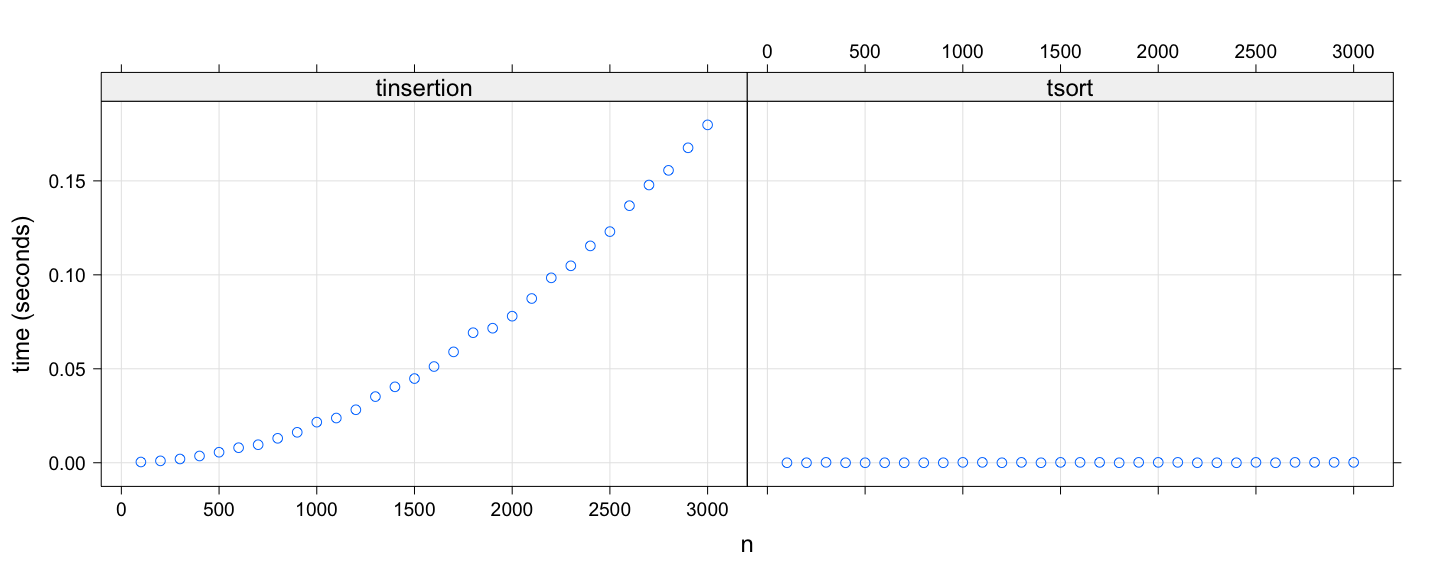
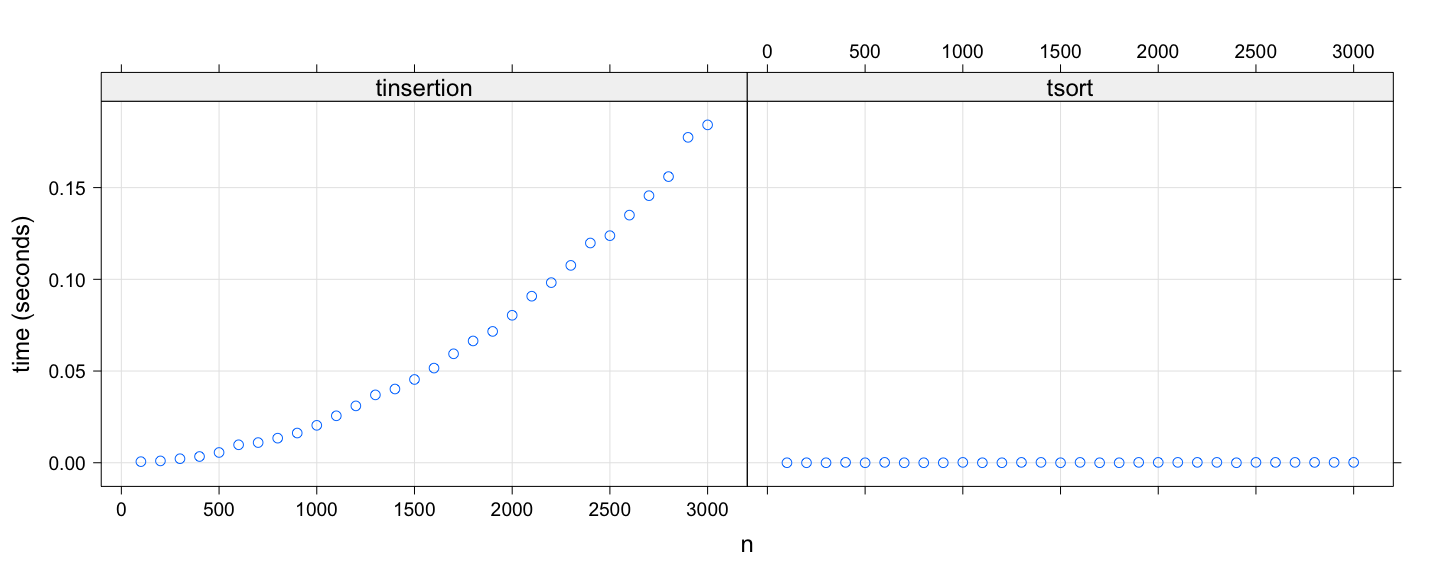
minor fixes

diff --git a/courses/introductory-computer-programming/slides/11-insertion-sort-1.html b/courses/introductory-computer-programming/slides/11-insertion-sort-1.html
@@ -52,7 +52,7 @@ mathjax: true
 
 .algorithm[
 .name[`is\_prime(n)`]
-__if__ $i \in \lbrace 2, 3, 5, 7, 11, 13, 17, 19 \rbrace$
+__if__ $n \in \lbrace 2, 3, 5, 7, 11, 13, 17, 19 \rbrace$
     __return__ TRUE
 __else__ 
     __return__ FALSE
@@ -234,7 +234,7 @@ insertion.sort <- function(A, verbose = FALSE)
 ```
 
 ```
- [1]  3  9  4  2  5  8  1  7  6 10
+ [1]  6  3  4  2  7  8 10  5  9  1
 ```
 
 ```r
@@ -250,7 +250,7 @@ insertion.sort(A)
 ```
 
 ```
- [1] 0.17 0.06 0.67 0.15 0.94 0.68 0.62 0.64 0.60 0.99
+ [1] 0.69 0.39 0.64 0.39 0.87 0.33 0.42 0.33 0.30 0.90
 ```
 
 ```r
@@ -258,7 +258,7 @@ insertion.sort(A)
 ```
 
 ```
- [1] 0.06 0.15 0.17 0.60 0.62 0.64 0.67 0.68 0.94 0.99
+ [1] 0.30 0.33 0.33 0.39 0.39 0.42 0.64 0.69 0.87 0.90
 ```
 
 ---
@@ -271,7 +271,7 @@ A
 ```
 
 ```
- [1] 0.17 0.06 0.67 0.15 0.94 0.68 0.62 0.64 0.60 0.99
+ [1] 0.69 0.39 0.64 0.39 0.87 0.33 0.42 0.33 0.30 0.90
 ```
 
 ```r
@@ -279,19 +279,19 @@ insertion.sort(A, verbose = TRUE)
 ```
 
 ```
-j = 2 , i = 0 , A = ( 0.06, 0.17, 0.67, 0.15, 0.94, 0.68, 0.62, 0.64, 0.60, 0.99 )
-j = 3 , i = 2 , A = ( 0.06, 0.17, 0.67, 0.15, 0.94, 0.68, 0.62, 0.64, 0.60, 0.99 )
-j = 4 , i = 1 , A = ( 0.06, 0.15, 0.17, 0.67, 0.94, 0.68, 0.62, 0.64, 0.60, 0.99 )
-j = 5 , i = 4 , A = ( 0.06, 0.15, 0.17, 0.67, 0.94, 0.68, 0.62, 0.64, 0.60, 0.99 )
-j = 6 , i = 4 , A = ( 0.06, 0.15, 0.17, 0.67, 0.68, 0.94, 0.62, 0.64, 0.60, 0.99 )
-j = 7 , i = 3 , A = ( 0.06, 0.15, 0.17, 0.62, 0.67, 0.68, 0.94, 0.64, 0.60, 0.99 )
-j = 8 , i = 4 , A = ( 0.06, 0.15, 0.17, 0.62, 0.64, 0.67, 0.68, 0.94, 0.60, 0.99 )
-j = 9 , i = 3 , A = ( 0.06, 0.15, 0.17, 0.60, 0.62, 0.64, 0.67, 0.68, 0.94, 0.99 )
-j = 10 , i = 9 , A = ( 0.06, 0.15, 0.17, 0.60, 0.62, 0.64, 0.67, 0.68, 0.94, 0.99 )
+j = 2 , i = 0 , A = ( 0.39, 0.69, 0.64, 0.39, 0.87, 0.33, 0.42, 0.33, 0.30, 0.90 )
+j = 3 , i = 1 , A = ( 0.39, 0.64, 0.69, 0.39, 0.87, 0.33, 0.42, 0.33, 0.30, 0.90 )
+j = 4 , i = 1 , A = ( 0.39, 0.39, 0.64, 0.69, 0.87, 0.33, 0.42, 0.33, 0.30, 0.90 )
+j = 5 , i = 4 , A = ( 0.39, 0.39, 0.64, 0.69, 0.87, 0.33, 0.42, 0.33, 0.30, 0.90 )
+j = 6 , i = 0 , A = ( 0.33, 0.39, 0.39, 0.64, 0.69, 0.87, 0.42, 0.33, 0.30, 0.90 )
+j = 7 , i = 3 , A = ( 0.33, 0.39, 0.39, 0.42, 0.64, 0.69, 0.87, 0.33, 0.30, 0.90 )
+j = 8 , i = 1 , A = ( 0.33, 0.33, 0.39, 0.39, 0.42, 0.64, 0.69, 0.87, 0.30, 0.90 )
+j = 9 , i = 0 , A = ( 0.30, 0.33, 0.33, 0.39, 0.39, 0.42, 0.64, 0.69, 0.87, 0.90 )
+j = 10 , i = 9 , A = ( 0.30, 0.33, 0.33, 0.39, 0.39, 0.42, 0.64, 0.69, 0.87, 0.90 )
 ```
 
 ```
- [1] 0.06 0.15 0.17 0.60 0.62 0.64 0.67 0.68 0.94 0.99
+ [1] 0.30 0.33 0.33 0.39 0.39 0.42 0.64 0.69 0.87 0.90
 ```
 
 ---
@@ -441,7 +441,7 @@ system.time(lapply(x, insertion.sort))
 
 ```
    user  system elapsed 
-  0.005   0.000   0.004 
+  0.004   0.000   0.004 
 ```
 
 ```r
@@ -451,7 +451,7 @@ system.time(lapply(x, insertion.sort))
 
 ```
    user  system elapsed 
-  0.402   0.001   0.403 
+  0.412   0.001   0.412 
 ```
 
 
@@ -483,7 +483,6 @@ xyplot(tinsertion ~ n, grid = TRUE, aspect = "xy")
 ```
 
 ![plot of chunk unnamed-chunk-6](figures/algo-insertion-1-unnamed-chunk-6-1.png)
-\
 
 
 ---
@@ -497,7 +496,6 @@ xyplot(tinsertion + tsort ~ n, grid = TRUE, outer = TRUE, ylab = "time (seconds)
 ```
 
 ![plot of chunk unnamed-chunk-7](figures/algo-insertion-1-unnamed-chunk-7-1.png)
-\
 
 
 ---
@@ -538,7 +536,7 @@ x
 ```
 
 ```
-array([0.74, 0.99, 0.78, 0.41, 0.77, 0.06, 0.58, 0.49, 0.69, 0.85])
+array([0.19, 0.15, 0.24, 0.25, 0.23, 0.29, 0.15, 0.49, 0.78, 0.87])
 ```
 
 ```python
@@ -549,7 +547,7 @@ x
 ```
 
 ```
-array([0.06, 0.41, 0.49, 0.58, 0.69, 0.74, 0.77, 0.78, 0.85, 0.99])
+array([0.15, 0.15, 0.19, 0.23, 0.24, 0.25, 0.29, 0.49, 0.78, 0.87])
 ```
 
 ```python
@@ -557,7 +555,7 @@ t1 - t0 # elapsed time in seconds
 ```
 
 ```
-0.007150888442993164
+0.007149934768676758
 ```
 
 
@@ -584,8 +582,9 @@ print(tvals)
 ```
 
 ```
-[0.0010251045227050782, 0.004077243804931641, 0.008986711502075195, 0.015577602386474609, 0.023862934112548827, 0.03536763191223145, 0.047041893005371094, 0.0615659236907959, 0.08053021430969239, 0.09554762840270996, 0.12025299072265624, 0.140333890914917, 0.16798186302185059, 0.19100031852722169, 0.22325425148010253, 0.25203776359558105, 0.2842442512512207, 0.32211956977844236, 0.34783759117126467, 0.386156702041626, 0.41030497550964357, 0.45542254447937014, 0.5005304336547851, 0.5396365642547607, 0.6355715274810791, 0.6483706474304199, 0.7053202629089356, 0.7458012580871582, 0.8074626445770263, 0.8597350120544434]
+[0.001068115234375, 0.004079008102416992, 0.009329652786254883, 0.016231727600097657, 0.0249908447265625, 0.03750324249267578, 0.04985532760620117, 0.06190080642700195, 0.08310961723327637, 0.09698586463928223, 0.12322158813476562, 0.15017437934875488, 0.17213659286499022, 0.2067112922668457, 0.21071505546569824, 0.2567749500274658, 0.2905534267425537, 0.3254661560058594, 0.35138592720031736, 0.43813204765319824, 0.48436813354492186, 0.5065563201904297, 0.5759134292602539, 0.6422959327697754, 0.6946413516998291, 0.7001478195190429, 0.7256057739257813, 0.8384577751159668, 0.8534924507141113, 0.976895523071289]
 ```
+
 
 ---
 
@@ -599,9 +598,6 @@ xyplot(tinsertion + tpython ~ n, grid = TRUE, outer = TRUE, ylab = "time (second
 ```
 
 ![plot of chunk unnamed-chunk-11](figures/algo-insertion-1-unnamed-chunk-11-1.png)
-\
-
-
 
 
 ---
@@ -649,7 +645,7 @@ NumericVector insertion_sort_rcpp_bad(NumericVector A)
 ```
 
 ```
- [1] 0.27 0.22 0.21 0.25 0.64 0.05 0.97 0.70 0.94 0.88
+ [1] 0.85 0.35 0.44 0.07 0.93 0.96 0.57 0.66 0.02 0.95
 ```
 
 ```r
@@ -657,7 +653,7 @@ insertion_sort_rcpp_bad(A)
 ```
 
 ```
- [1] 0.05 0.21 0.22 0.25 0.27 0.64 0.70 0.88 0.94 0.97
+ [1] 0.02 0.07 0.35 0.44 0.57 0.66 0.85 0.93 0.95 0.96
 ```
 
 ```r
@@ -665,7 +661,7 @@ A # changed!
 ```
 
 ```
- [1] 0.05 0.21 0.22 0.25 0.27 0.64 0.70 0.88 0.94 0.97
+ [1] 0.02 0.07 0.35 0.44 0.57 0.66 0.85 0.93 0.95 0.96
 ```
 
 
@@ -713,7 +709,7 @@ NumericVector insertion_sort_rcpp(NumericVector x)
 ```
 
 ```
- [1] 0.47 0.02 0.26 0.50 0.45 0.02 0.14 0.10 0.13 0.08
+ [1] 0.46 0.98 0.95 0.58 0.80 0.51 0.55 0.72 0.91 0.78
 ```
 
 ```r
@@ -721,7 +717,7 @@ insertion_sort_rcpp(A)
 ```
 
 ```
- [1] 0.02 0.02 0.08 0.10 0.13 0.14 0.26 0.45 0.47 0.50
+ [1] 0.46 0.51 0.55 0.58 0.72 0.78 0.80 0.91 0.95 0.98
 ```
 
 ```r
@@ -729,7 +725,7 @@ A # unchanged
 ```
 
 ```
- [1] 0.47 0.02 0.26 0.50 0.45 0.02 0.14 0.10 0.13 0.08
+ [1] 0.46 0.98 0.95 0.58 0.80 0.51 0.55 0.72 0.91 0.78
 ```
 
 
@@ -744,7 +740,6 @@ xyplot(tinsertion + tpython + trcpp ~ n, grid = TRUE, outer = TRUE, ylab = "time
 ```
 
 ![plot of chunk unnamed-chunk-16](figures/algo-insertion-1-unnamed-chunk-16-1.png)
-\
 
 
 ---
@@ -758,7 +753,6 @@ xyplot(tinsertion + tpython + trcpp ~ n, grid = TRUE, outer = TRUE,
 ```
 
 ![plot of chunk unnamed-chunk-17](figures/algo-insertion-1-unnamed-chunk-17-1.png)
-\
 
 
 ---
@@ -773,7 +767,6 @@ xyplot(trcpp10 + tsort ~ (10 * n), grid = TRUE, outer = TRUE, ylab = "time (seco
 ```
 
 ![plot of chunk unnamed-chunk-18](figures/algo-insertion-1-unnamed-chunk-18-1.png)
-\
 
 
 
@@ -788,7 +781,6 @@ xyplot(tsort ~ (100 * n), grid = TRUE, outer = TRUE, ylab = "time (seconds)", as
 ```
 
 ![plot of chunk unnamed-chunk-19](figures/algo-insertion-1-unnamed-chunk-19-1.png)
-\
 
 
 
